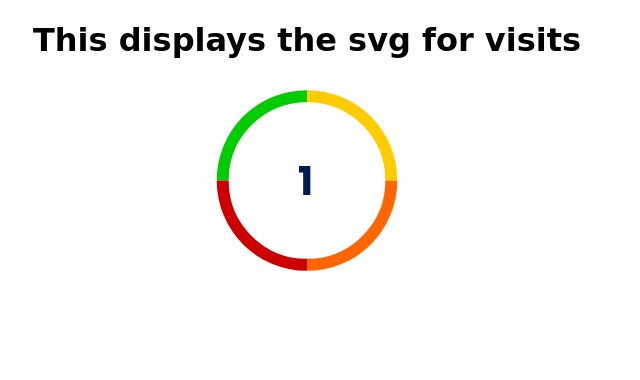
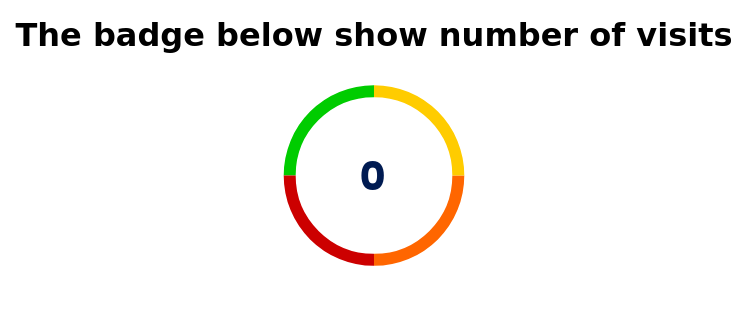
Updated images, and content

Changed region(s): [[0.3125, 0.2167, 0.625, 0.8359], [0.0, 0.0619, 0.9688, 0.1858], [0.4688, 0.4334, 0.5312, 0.5882]]

diff --git a/content/posts/backend-basics-0.md b/content/posts/backend-basics-0.md
@@ -10,8 +10,9 @@ tags:
   - 'nodejs'
   - 'http'
   - 'cookies'
+  - 'svg'
 description: 'You might have seen counter on GitHub profiles displaying how many visits a profile has, but do you know how they work, join me as I explore several ways to do just that.'
-socialImage: '/media/rs-gh-profile.png'
+socialImage: '/media/counter-image.png'
 ---
 
 ## Why are we here?
@@ -240,7 +241,7 @@ We load our image at startup from a file and store it in a string, that's why we
 
 What my svg template looks like, which I made using Inkscape.
 
-![My counter image template](/media/visits-counter-counter-optim.svg)
+![My counter image design](/media/counter-image.png)
 
 ### Finally, making the server
 
@@ -431,4 +432,11 @@ Example: when you request `example.com/svg/1` counter 1 is returned and `example
 
 I am not going to detail you how to do that, learn yourself.
 
-You can find the source code on the github repo `backend-basics/visits-counter`.
+## Conclusion
+It was fun learning and applying while making this project, but the question is can we use this for real. The answer is... it depends. If you want just one counter it's good to go, if you want multiple counters you will have to tinker with the code a bit to make it work.
+
+Why do you want to host it? Well if you want an image with distinct design, go ahead.
+
+Maybe, I will post the updates with database integration for multiple images, and possibly an option to upload your own designs.
+
+You can find the source code on the github repo [backend-basics](https://github.com/rathod-sahaab/backend-basics/tree/dev/cookies/visits-counter).
